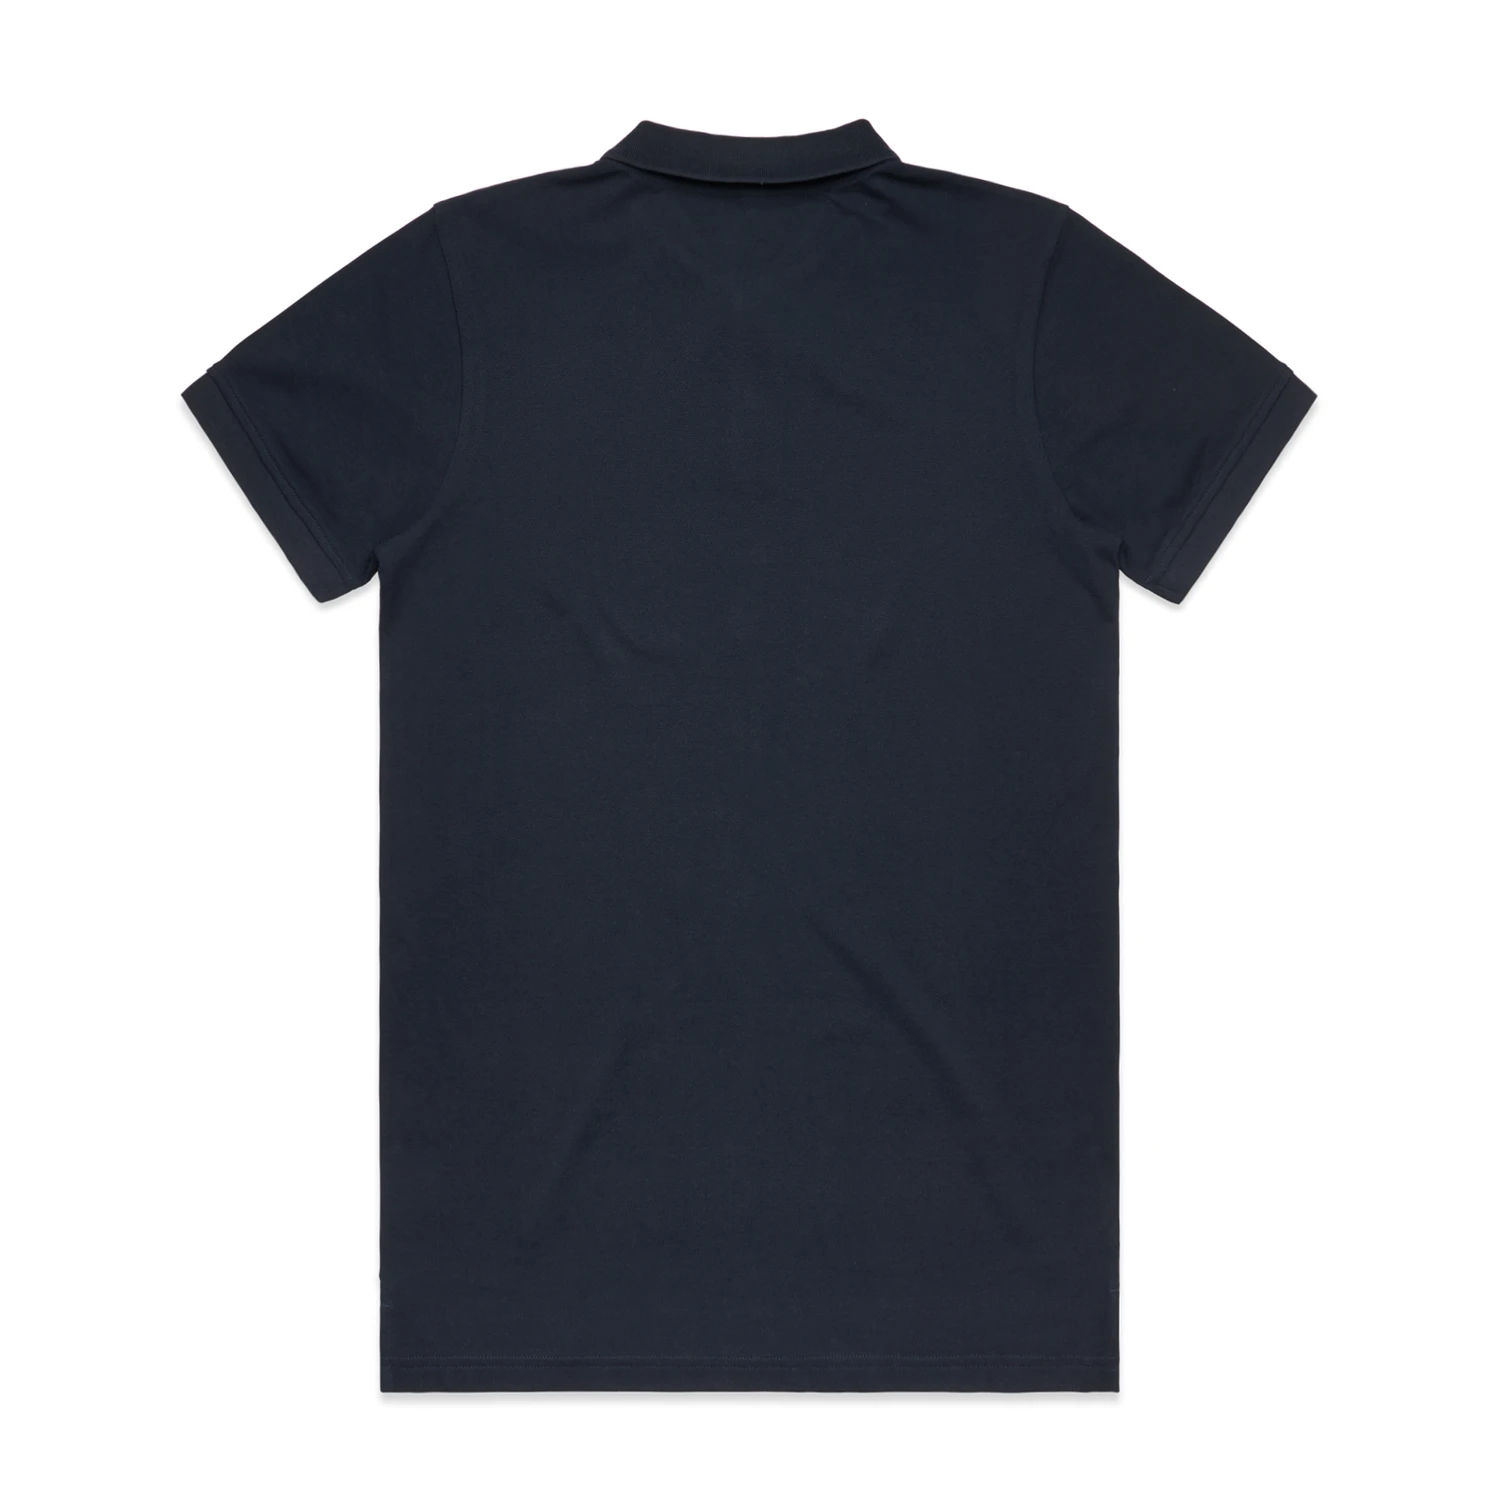
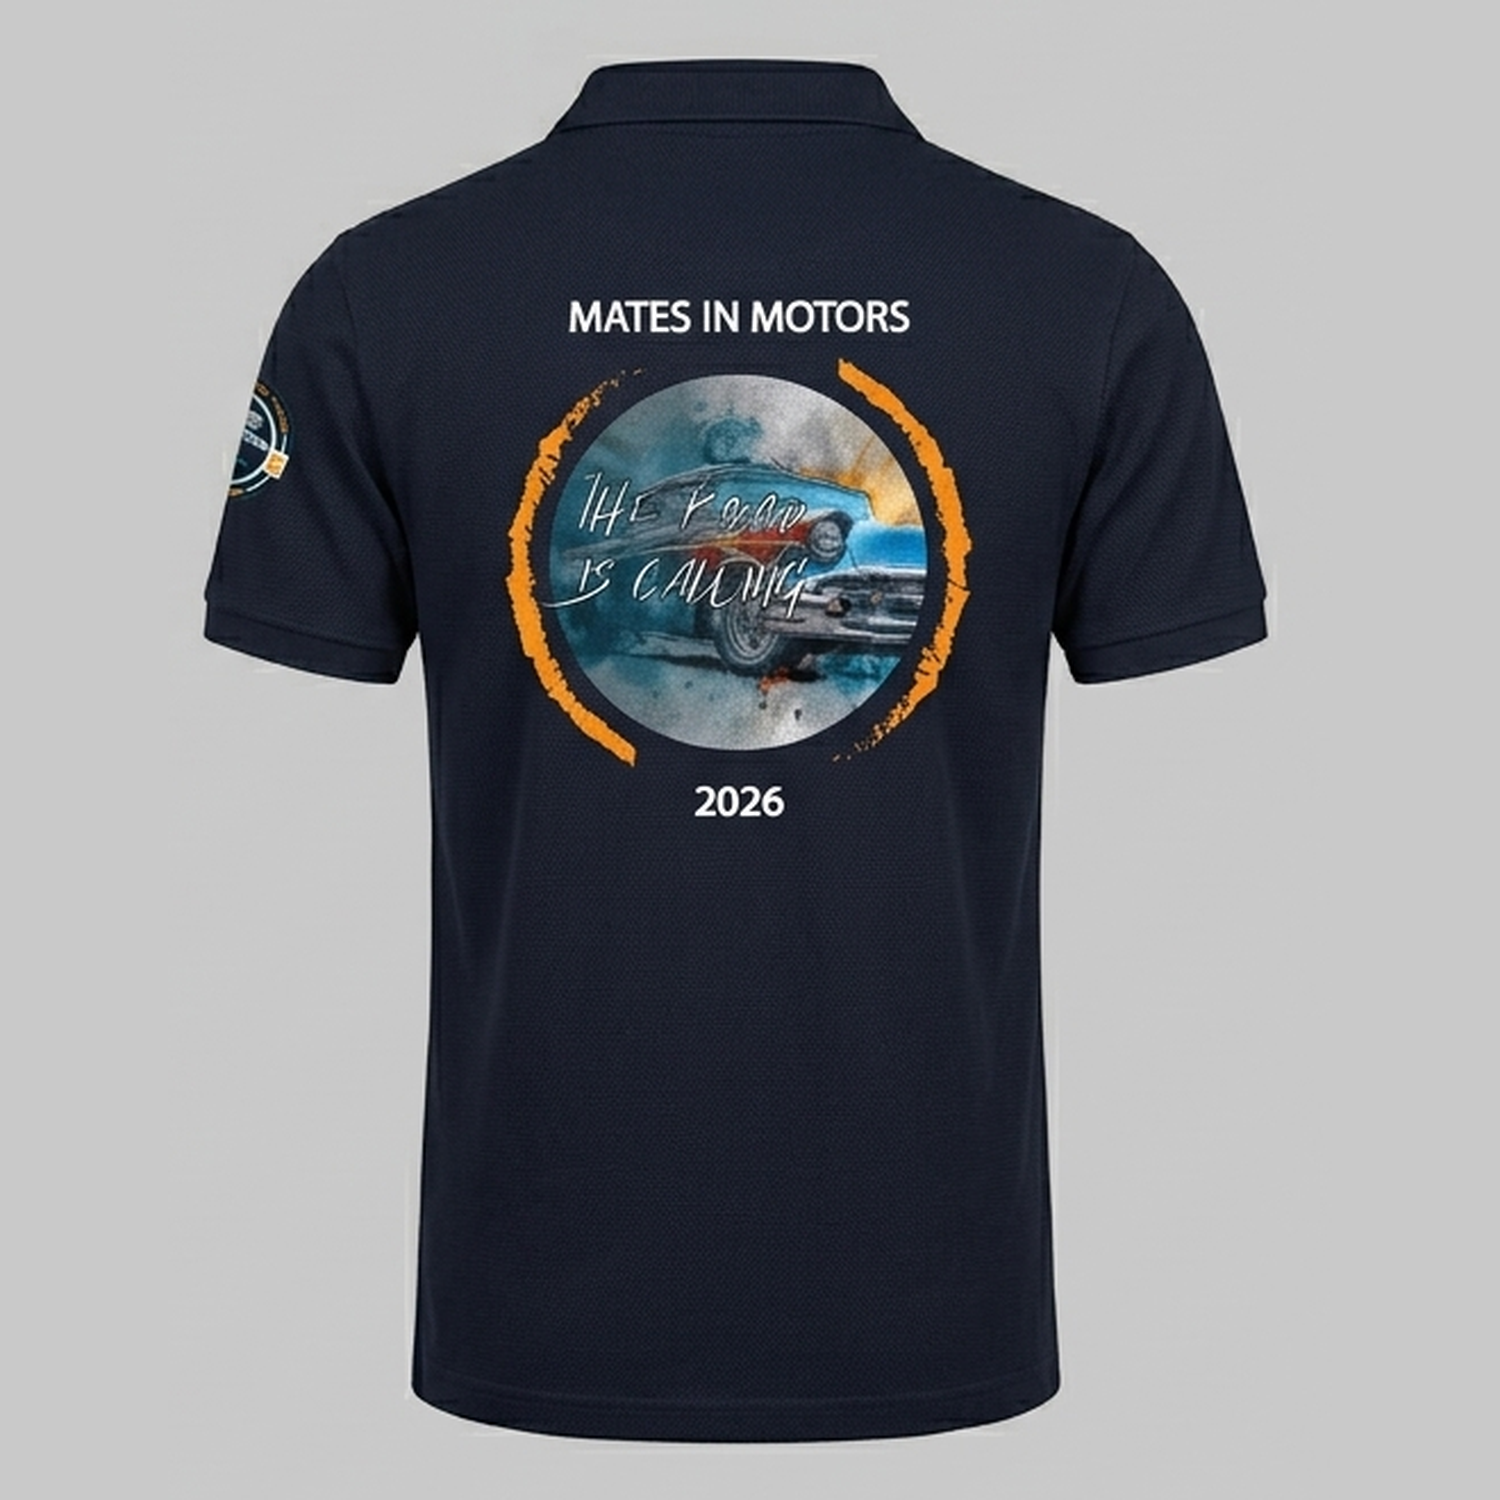
Mates in Motors store: decorated Pique Polo mockups; polos get sleeve badge and patch

diff --git a/app/teamwear/mates-in-motors/report/page.tsx b/app/teamwear/mates-in-motors/report/page.tsx
@@ -18,7 +18,8 @@ const FONT = "Helvetica, Arial, sans-serif";
 
 const ALL_PRODUCTS = ["Staple Tee", "Maple Tee", "Staple Tank", "Maple Tank", "Pique Polo"];
 const ALL_SIZES = ["XSM", "SML", "MED", "LRG", "XLG", "2XL", "3XL", "4XL", "5XL"];
-const TEE_PRODUCTS = new Set(["Staple Tee", "Maple Tee"]);
+// Garments that get the sleeve badge and MATES sleeve patch
+const SLEEVED_PRODUCTS = new Set(["Staple Tee", "Maple Tee", "Pique Polo"]);
 
 type ParsedItem = {
   product: string;
@@ -142,7 +143,7 @@ export default async function ReportPage({
   }
 
   // Print requirements
-  const teeCount = data.items.filter((i) => TEE_PRODUCTS.has(i.product)).length;
+  const sleevedCount = data.items.filter((i) => SLEEVED_PRODUCTS.has(i.product)).length;
   const gangSheets = data.totalGarments > 0 ? Math.ceil(data.totalGarments / 15) : 0;
   const spareSlots = gangSheets * 15 - data.totalGarments;
 
@@ -381,8 +382,8 @@ export default async function ReportPage({
                 [
                   ["Back graphic", data.totalGarments, "all garments"],
                   ["Chest logo", data.totalGarments, "all garments"],
-                  ["Sleeve badge", teeCount, "tees only"],
-                  ["MATES sleeve patch", teeCount, "tees only"],
+                  ["Sleeve badge", sleevedCount, "tees + polos"],
+                  ["MATES sleeve patch", sleevedCount, "tees + polos"],
                   ["Printed names", data.totalGarments, "all garments"],
                 ] as [string, number, string][]
               ).map(([label, count, note]) => (
